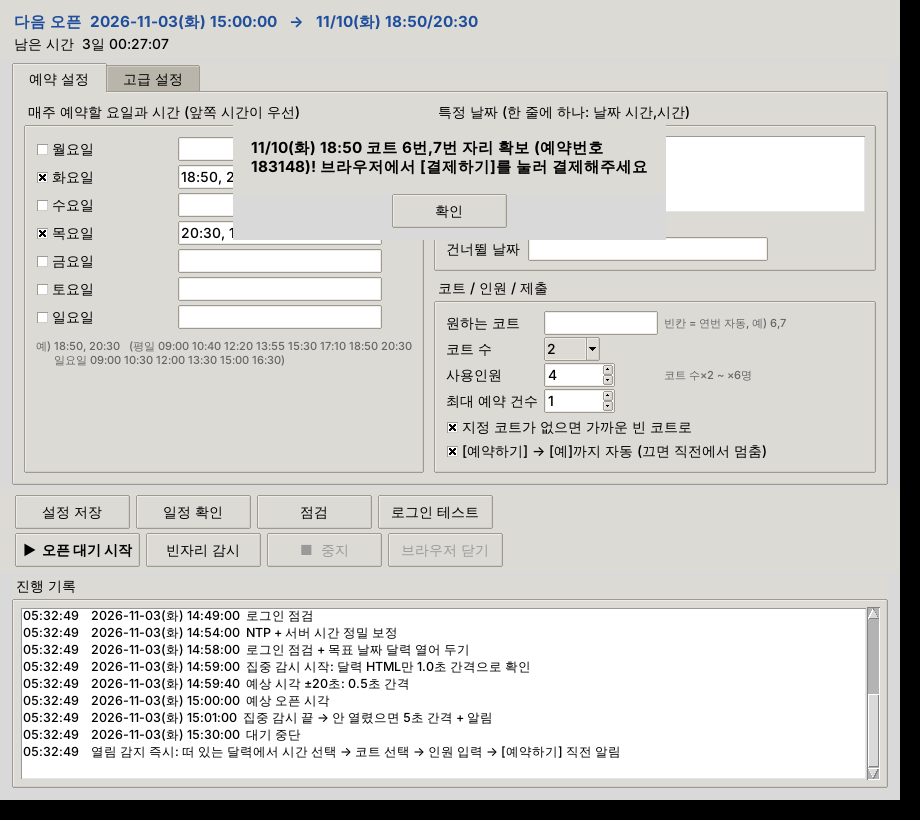
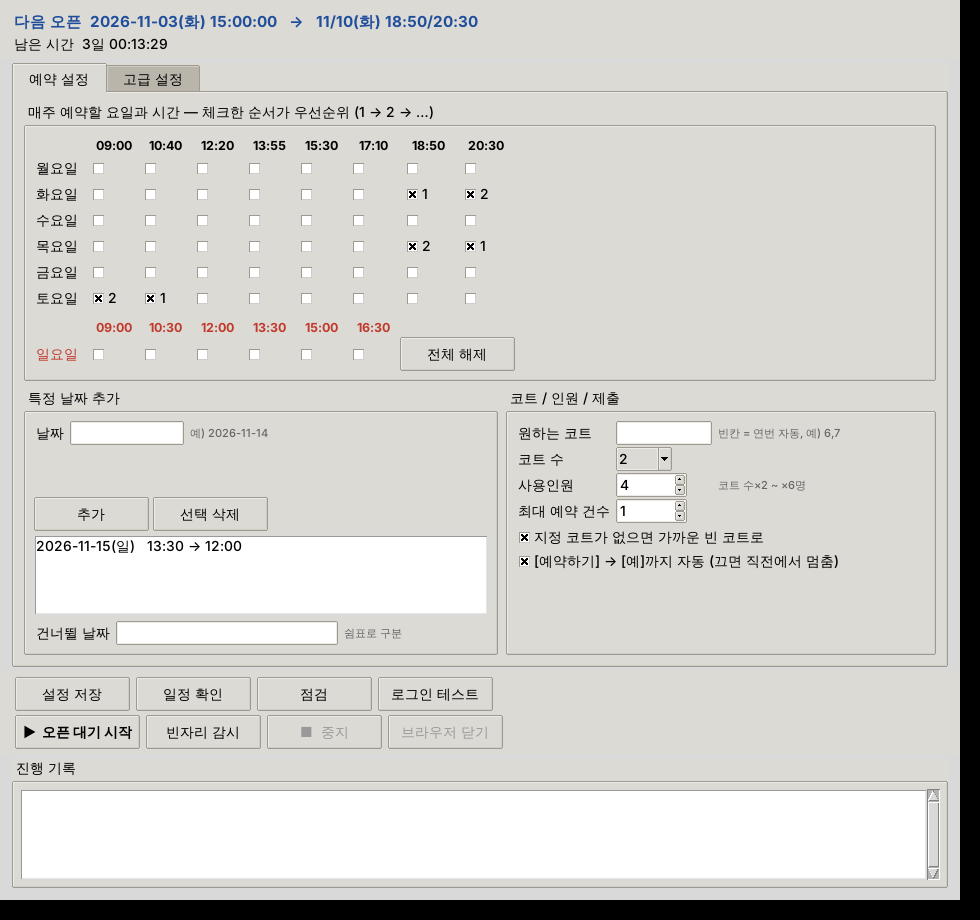
auc_reserve GUI: pick times from a checkbox timetable instead of typing
Weekday rows use the Mon-Sat slots, Sunday its own six slots; check order
is the priority and is shown as 1, 2, 3 next to each box. Extra dates
show the matching timetable once a date is entered and are added to a list.

Claude-Session: https://claude.ai/code/session_01Xek6Dm2fkyV4A9ATkhvND8

diff --git a/auc_reserve/gui.py b/auc_reserve/gui.py
@@ -19,18 +19,15 @@ import main as core
 from schedule import KST, WEEKDAY_KO
 
 WEEKDAY_KEYS = ["MON", "TUE", "WED", "THU", "FRI", "SAT", "SUN"]
+# 호계체육관 배드민턴장 시간표 (월~토 / 일·공휴일)
+WEEK_TIMES = ["09:00", "10:40", "12:20", "13:55", "15:30", "17:10", "18:50", "20:30"]
+SUN_TIMES = ["09:00", "10:30", "12:00", "13:30", "15:00", "16:30"]
+
+
+def slot_times(weekday_index):
+    return SUN_TIMES if weekday_index == 6 else WEEK_TIMES
 TIME_RE = re.compile(r"^\d{1,2}:\d{2}$")
-DATE_RE = re.compile(r"^\d{4}-\d{2}-\d{2}$")
 FONT = ("맑은 고딕", 10)
-
-
-def parse_times(text):
-    """'18:50, 20:30' → ['18:50', '20:30'] (형식이 틀리면 ValueError)."""
-    items = [x.strip() for x in re.split(r"[,\s]+", text) if x.strip()]
-    for x in items:
-        if not TIME_RE.match(x):
-            raise ValueError(f"시간 형식이 아닙니다: {x} (예: 18:50)")
-    return items
 
 
 class QueueLogHandler(logging.Handler):
@@ -41,6 +38,49 @@ class QueueLogHandler(logging.Handler):
 
     def emit(self, record):
         self.q.put(("log", self.format(record), record.levelno))
+
+
+class TimePicker:
+    """시간 체크박스 묶음. 체크한 순서가 우선순위가 되고, 칸 옆에 1·2·3 번호를 보여 준다."""
+
+    def __init__(self, parent, times, row, col0, on_change=None):
+        self.times = list(times)
+        self.order = []
+        self.vars, self.texts, self.boxes = {}, {}, {}
+        self.on_change = on_change
+        for j, t in enumerate(self.times):
+            v, txt = tk.IntVar(value=0), tk.StringVar(value="  ")
+            cb = ttk.Checkbutton(parent, variable=v, textvariable=txt, width=3,
+                                 command=lambda t=t: self.toggle(t))
+            cb.grid(row=row, column=col0 + j, padx=2, pady=1)
+            self.vars[t], self.texts[t], self.boxes[t] = v, txt, cb
+
+    def toggle(self, t):
+        if self.vars[t].get():
+            if t not in self.order:
+                self.order.append(t)
+        elif t in self.order:
+            self.order.remove(t)
+        self.refresh()
+        if self.on_change:
+            self.on_change()
+
+    def set(self, times):
+        self.order = [t for t in times if t in self.vars]
+        self.refresh()
+
+    def refresh(self):
+        for t in self.times:
+            on = t in self.order
+            self.vars[t].set(1 if on else 0)
+            self.texts[t].set(str(self.order.index(t) + 1) if on else "  ")
+
+    def clear(self):
+        self.set([])
+
+    def destroy(self):
+        for cb in self.boxes.values():
+            cb.destroy()
 
 
 class App:
@@ -55,8 +95,8 @@ class App:
         self.env_path = core.BASE / ".env"
 
         root.title("배드민턴장 예약 도우미 (안양도시공사 호계체육관)")
-        root.geometry("900x800")
-        root.minsize(820, 640)
+        root.geometry("960x900")
+        root.minsize(900, 760)
         style = ttk.Style()
         try:
             style.theme_use("vista" if sys.platform == "win32" else "clam")
@@ -124,33 +164,54 @@ class App:
 
     def build_main_tab(self, parent):
         f = ttk.Frame(parent, padding=10)
+        small = ("맑은 고딕", 8)
 
-        days = ttk.LabelFrame(f, text=" 매주 예약할 요일과 시간 (앞쪽 시간이 우선) ", padding=8)
-        days.grid(row=0, column=0, rowspan=2, sticky="nsew", padx=(0, 10))
-        self.day_on, self.day_times = {}, {}
-        for i, wd in enumerate(WEEKDAY_KEYS):
-            self.day_on[wd] = tk.BooleanVar()
-            self.day_times[wd] = tk.StringVar()
-            ttk.Checkbutton(days, text=WEEKDAY_KO[i] + "요일", variable=self.day_on[wd]).grid(
-                row=i, column=0, sticky="w", pady=2)
-            ttk.Entry(days, textvariable=self.day_times[wd], width=22).grid(row=i, column=1, padx=6)
-        ttk.Label(days, text="예) 18:50, 20:30   (평일 09:00 10:40 12:20 13:55 15:30 17:10 18:50 20:30\n"
-                             "      일요일 09:00 10:30 12:00 13:30 15:00 16:30)",
-                  foreground="#666", font=("맑은 고딕", 8)).grid(row=7, column=0, columnspan=2, sticky="w",
-                                                              pady=(6, 0))
+        # ── 매주 반복: 요일 × 시간 체크표 ──
+        days = ttk.LabelFrame(f, text=" 매주 예약할 요일과 시간 — 체크한 순서가 우선순위 (1 → 2 → …) ", padding=8)
+        days.grid(row=0, column=0, columnspan=2, sticky="nsew")
+        for j, t in enumerate(WEEK_TIMES):
+            ttk.Label(days, text=t, font=("맑은 고딕", 9, "bold")).grid(row=0, column=1 + j, padx=2)
+        self.day_pick = {}
+        for i, wd in enumerate(WEEKDAY_KEYS[:6]):
+            ttk.Label(days, text=WEEKDAY_KO[i] + "요일").grid(row=1 + i, column=0, sticky="w", padx=(0, 8))
+            self.day_pick[wd] = TimePicker(days, WEEK_TIMES, 1 + i, 1)
+        for j, t in enumerate(SUN_TIMES):
+            ttk.Label(days, text=t, font=("맑은 고딕", 9, "bold"), foreground="#c0392b").grid(
+                row=7, column=1 + j, padx=2, pady=(6, 0))
+        ttk.Label(days, text="일요일", foreground="#c0392b").grid(row=8, column=0, sticky="w")
+        self.day_pick["SUN"] = TimePicker(days, SUN_TIMES, 8, 1)
+        ttk.Button(days, text="전체 해제", command=lambda: [p.clear() for p in self.day_pick.values()]).grid(
+            row=8, column=7, columnspan=2, sticky="e")
 
-        ex = ttk.LabelFrame(f, text=" 특정 날짜 (한 줄에 하나: 날짜 시간,시간) ", padding=8)
-        ex.grid(row=0, column=1, sticky="nsew")
-        self.extra_box = tk.Text(ex, height=4, width=34, font=FONT)
-        self.extra_box.pack(fill="both", expand=True)
-        ttk.Label(ex, text="예) 2026-11-14 10:40, 12:20", foreground="#666",
-                  font=("맑은 고딕", 8)).pack(anchor="w")
+        # ── 특정 날짜 ──
+        ex = ttk.LabelFrame(f, text=" 특정 날짜 추가 ", padding=8)
+        ex.grid(row=1, column=0, sticky="nsew", pady=(8, 0), padx=(0, 8))
+        top = ttk.Frame(ex)
+        top.pack(fill="x")
+        ttk.Label(top, text="날짜").pack(side="left")
+        self.ex_date = tk.StringVar()
+        ttk.Entry(top, textvariable=self.ex_date, width=12).pack(side="left", padx=4)
+        self.ex_wd = ttk.Label(top, text="예) 2026-11-14", foreground="#666", font=small)
+        self.ex_wd.pack(side="left")
+        self.ex_times_frame = ttk.Frame(ex)
+        self.ex_times_frame.pack(fill="x", pady=4)
+        self.ex_pick = None
+        self.ex_date.trace_add("write", lambda *_: self.on_ex_date())
+        btns = ttk.Frame(ex)
+        btns.pack(fill="x")
+        ttk.Button(btns, text="추가", command=self.add_extra).pack(side="left")
+        ttk.Button(btns, text="선택 삭제", command=self.del_extra).pack(side="left", padx=4)
+        self.extra_list = tk.Listbox(ex, height=4, font=FONT)
+        self.extra_list.pack(fill="both", expand=True, pady=(4, 0))
+        self.extras = []
         row = ttk.Frame(ex)
         row.pack(fill="x", pady=(6, 0))
         ttk.Label(row, text="건너뛸 날짜").pack(side="left")
         self.skip_var = tk.StringVar()
-        ttk.Entry(row, textvariable=self.skip_var, width=26).pack(side="left", padx=6)
+        ttk.Entry(row, textvariable=self.skip_var, width=24).pack(side="left", padx=4)
+        ttk.Label(row, text="쉼표로 구분", foreground="#666", font=small).pack(side="left")
 
+        # ── 코트 / 인원 / 제출 ──
         ct = ttk.LabelFrame(f, text=" 코트 / 인원 / 제출 ", padding=8)
         ct.grid(row=1, column=1, sticky="nsew", pady=(8, 0))
         self.courts_var = tk.StringVar()
@@ -160,17 +221,16 @@ class App:
         self.auto_submit = tk.BooleanVar(value=True)
         self.max_per = tk.StringVar(value="1")
         ttk.Label(ct, text="원하는 코트").grid(row=0, column=0, sticky="w")
-        ttk.Entry(ct, textvariable=self.courts_var, width=12).grid(row=0, column=1, sticky="w", padx=4)
-        ttk.Label(ct, text="빈칸 = 연번 자동, 예) 6,7", foreground="#666",
-                  font=("맑은 고딕", 8)).grid(row=0, column=2, sticky="w")
+        ttk.Entry(ct, textvariable=self.courts_var, width=10).grid(row=0, column=1, sticky="w", padx=4)
+        ttk.Label(ct, text="빈칸 = 연번 자동, 예) 6,7", foreground="#666", font=small).grid(
+            row=0, column=2, sticky="w")
         ttk.Label(ct, text="코트 수").grid(row=1, column=0, sticky="w", pady=3)
         ttk.Combobox(ct, textvariable=self.court_count, values=["1", "2"], width=4, state="readonly").grid(
             row=1, column=1, sticky="w", padx=4)
         ttk.Label(ct, text="사용인원").grid(row=2, column=0, sticky="w")
         ttk.Spinbox(ct, textvariable=self.people, from_=2, to=12, width=5).grid(row=2, column=1, sticky="w",
                                                                               padx=4)
-        ttk.Label(ct, text="코트 수×2 ~ ×6명", foreground="#666", font=("맑은 고딕", 8)).grid(
-            row=2, column=2, sticky="w")
+        ttk.Label(ct, text="코트 수×2 ~ ×6명", foreground="#666", font=small).grid(row=2, column=2, sticky="w")
         ttk.Label(ct, text="최대 예약 건수").grid(row=3, column=0, sticky="w", pady=3)
         ttk.Spinbox(ct, textvariable=self.max_per, from_=1, to=2, width=5).grid(row=3, column=1, sticky="w",
                                                                               padx=4)
@@ -179,8 +239,54 @@ class App:
         ttk.Checkbutton(ct, text="[예약하기] → [예]까지 자동 (끄면 직전에서 멈춤)", variable=self.auto_submit).grid(
             row=5, column=0, columnspan=3, sticky="w")
 
+        f.columnconfigure(0, weight=1)
         f.columnconfigure(1, weight=1)
         return f
+
+    # ── 특정 날짜: 날짜 입력 → 그 요일 시간표 체크 → 추가 ──
+    def on_ex_date(self):
+        if self.ex_pick:
+            self.ex_pick.destroy()
+            self.ex_pick = None
+        for w in self.ex_times_frame.winfo_children():
+            w.destroy()
+        s = self.ex_date.get().strip()
+        try:
+            d = datetime.strptime(s, "%Y-%m-%d").date()
+        except ValueError:
+            self.ex_wd.configure(text="예) 2026-11-14")
+            return
+        self.ex_wd.configure(text=f"({WEEKDAY_KO[d.weekday()]})  시간을 체크하세요")
+        times = slot_times(d.weekday())
+        for j, t in enumerate(times):
+            ttk.Label(self.ex_times_frame, text=t, font=("맑은 고딕", 8, "bold")).grid(row=0, column=j, padx=2)
+        self.ex_pick = TimePicker(self.ex_times_frame, times, 1, 0)
+
+    def add_extra(self):
+        s = self.ex_date.get().strip()
+        try:
+            d = datetime.strptime(s, "%Y-%m-%d").date()
+        except ValueError:
+            messagebox.showwarning("입력 확인", "날짜를 2026-11-14 형식으로 입력하세요.")
+            return
+        if not self.ex_pick or not self.ex_pick.order:
+            messagebox.showwarning("입력 확인", "시간을 하나 이상 체크하세요.")
+            return
+        self.extras = [e for e in self.extras if e["date"] != s] + [{"date": s, "times": list(self.ex_pick.order)}]
+        self.extras.sort(key=lambda e: e["date"])
+        self.show_extras()
+        self.ex_date.set("")
+
+    def del_extra(self):
+        for i in reversed(self.extra_list.curselection()):
+            del self.extras[i]
+        self.show_extras()
+
+    def show_extras(self):
+        self.extra_list.delete(0, "end")
+        for e in self.extras:
+            d = datetime.strptime(e["date"], "%Y-%m-%d").date()
+            self.extra_list.insert("end", f'{e["date"]}({WEEKDAY_KO[d.weekday()]})   {" → ".join(e["times"])}')
 
     def build_adv_tab(self, parent):
         f = ttk.Frame(parent, padding=10)
@@ -225,16 +331,13 @@ class App:
         c = self.cfg
         days = {td["weekday"].upper(): td for td in c.get("target_days", [])}
         for wd in WEEKDAY_KEYS:
-            self.day_on[wd].set(wd in days)
-            self.day_times[wd].set(", ".join(days.get(wd, {}).get("times", [])))
-        lines = []
+            self.day_pick[wd].set(days.get(wd, {}).get("times", []))
+        self.extras = []
         for ex in c.get("extra_dates", []):
             if isinstance(ex, str):
-                lines.append(ex)
-            else:
-                lines.append(f'{ex["date"]} {", ".join(ex.get("times", []))}'.strip())
-        self.extra_box.delete("1.0", "end")
-        self.extra_box.insert("1.0", "\n".join(lines))
+                ex = {"date": ex, "times": list(c.get("default_times", []))}
+            self.extras.append({"date": ex["date"], "times": list(ex.get("times", []))})
+        self.show_extras()
         self.skip_var.set(", ".join(c.get("skip_dates", [])))
         self.courts_var.set(",".join(str(x) for x in c.get("courts", [])))
         self.court_count.set(str(c.get("court_count", 2)))
@@ -258,24 +361,11 @@ class App:
         c = dict(self.cfg)
         c["open_mode"] = c.get("open_mode", "rolling")
         c["target_days"] = []
-        for i, wd in enumerate(WEEKDAY_KEYS):
-            if self.day_on[wd].get():
-                times = parse_times(self.day_times[wd].get())
-                if not times:
-                    raise ValueError(f"{WEEKDAY_KO[i]}요일 시간을 입력하세요.")
-                c["target_days"].append({"weekday": wd, "times": times, "facilities": []})
-        extras = []
-        for line in self.extra_box.get("1.0", "end").splitlines():
-            line = line.strip()
-            if not line:
-                continue
-            date_s, _, rest = line.partition(" ")
-            if not DATE_RE.match(date_s):
-                raise ValueError(f"날짜 형식이 아닙니다: {date_s} (예: 2026-11-14)")
-            datetime.strptime(date_s, "%Y-%m-%d")
-            times = parse_times(rest)
-            extras.append({"date": date_s, "times": times} if times else date_s)
-        c["extra_dates"] = extras
+        for wd in WEEKDAY_KEYS:
+            if self.day_pick[wd].order:
+                c["target_days"].append({"weekday": wd, "times": list(self.day_pick[wd].order),
+                                         "facilities": []})
+        c["extra_dates"] = [dict(e) for e in self.extras if e["times"]]
         skips = [x.strip() for x in self.skip_var.get().split(",") if x.strip()]
         for x in skips:
             datetime.strptime(x, "%Y-%m-%d")

diff --git a/auc_reserve/README.md b/auc_reserve/README.md
@@ -33,7 +33,7 @@ auc_reserve/
 ![GUI 미리보기](gui_preview.png)
 
 - **위쪽:** 다음 오픈 일시와 목표 날짜, 남은 시간
-- **예약 설정 탭:** 요일별 시간(앞쪽이 우선), 특정 날짜, 건너뛸 날짜, 원하는 코트(빈칸 = 연번 자동), 코트 수, 사용인원, [예]까지 자동 여부
+- **예약 설정 탭:** 요일 × 시간 체크표(**체크한 순서가 우선순위**, 칸 옆에 1·2·3 표시), 특정 날짜(날짜 입력 → 그 요일 시간표 체크 → 추가), 건너뛸 날짜, 원하는 코트(빈칸 = 연번 자동), 코트 수, 사용인원, [예]까지 자동 여부
 - **고급 설정 탭:** 오픈 시각, 감시 범위/간격, 텔레그램, 알림 소리, 아이디
 - **버튼:** 설정 저장 / 일정 확인 / 점검 / 로그인 테스트 / ▶ 오픈 대기 시작 / 빈자리 감시 / ■ 중지 / 브라우저 닫기
 - **진행 기록:** 실시간 로그. 자리 확보·로그인 필요 같은 중요한 알림은 맨 앞에 팝업으로 뜹니다.
